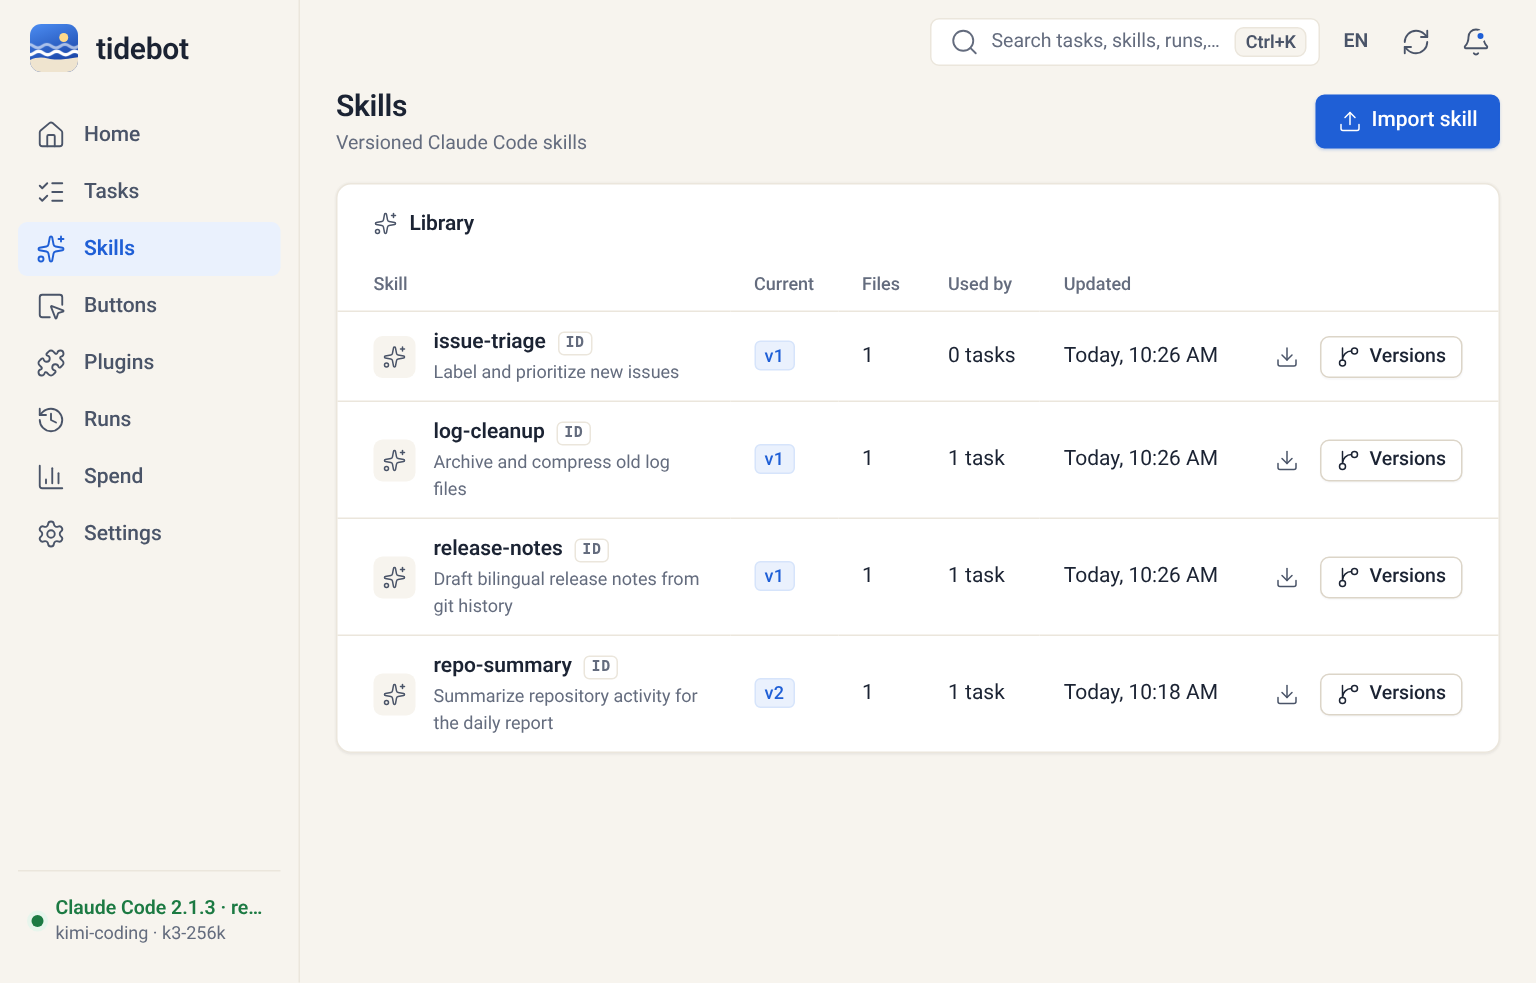
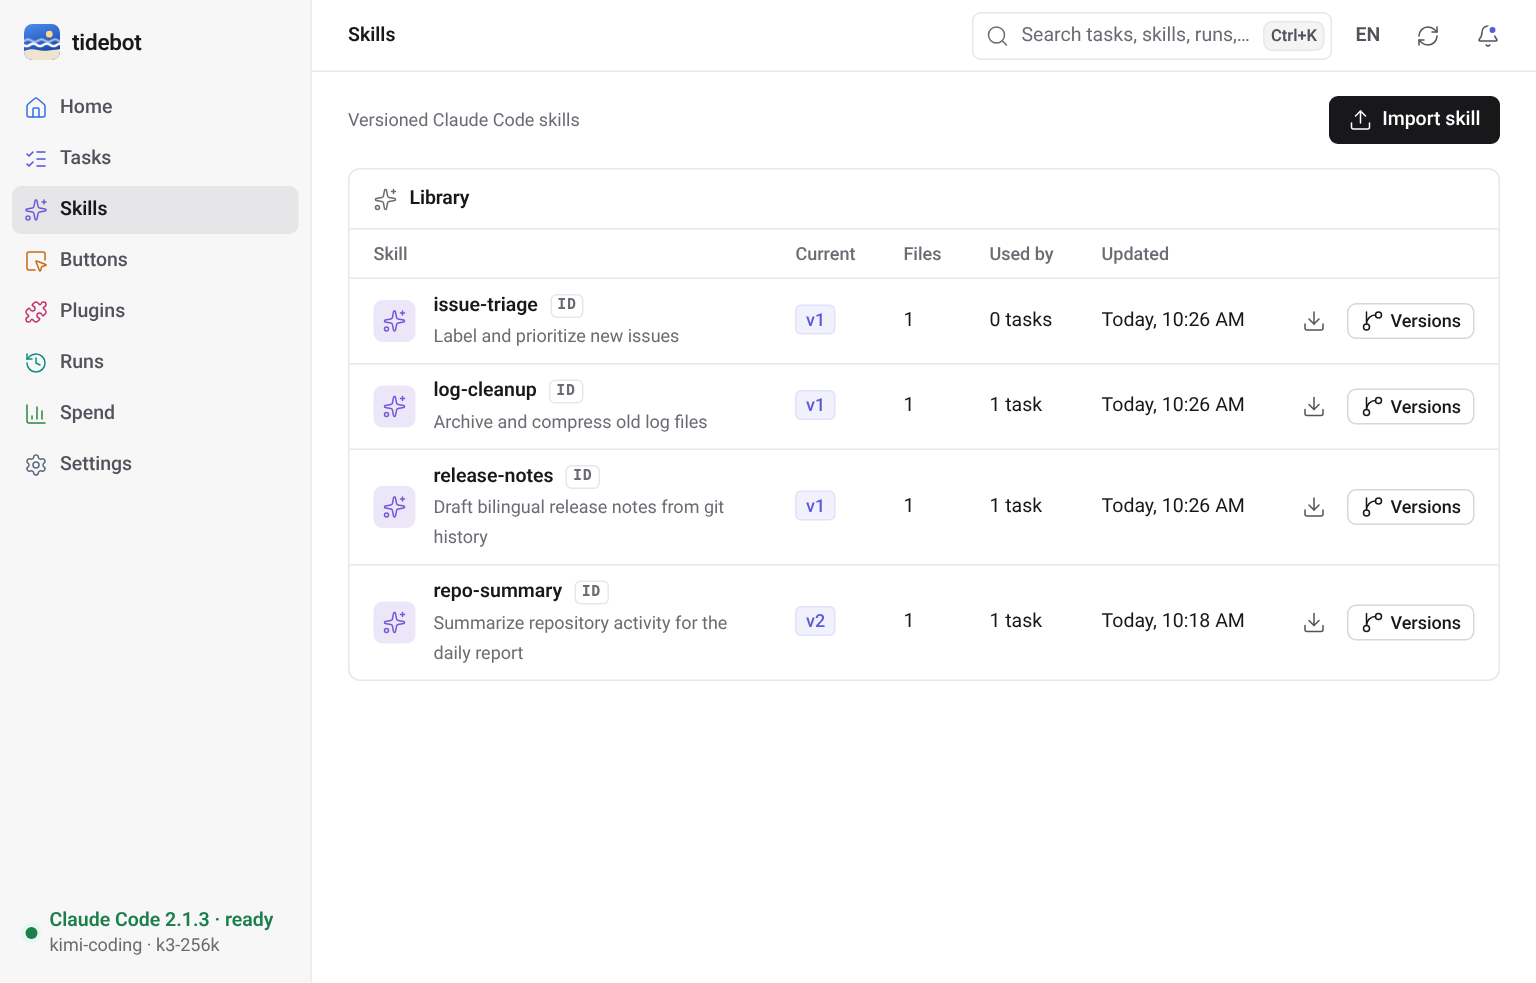
v0.1.9 发布说明；README 按石墨新界面重拍全部截图，新增外观设置、命令面板切换主题和午夜深色截图，补充三套主题说明，更新占用数据和安装版本号

diff --git a/internal/buildinfo/buildinfo_test.go b/internal/buildinfo/buildinfo_test.go
@@ -4,8 +4,8 @@ import "testing"
 
 func TestSourceRefAndOfficial(t *testing.T) {
 	defer func(v, c, o string) { Version, Commit, Official = v, c, o }(Version, Commit, Official)
-	Version, Commit = "0.1.8", "abc"
-	if g := SourceRef(); g != "https://github.com/Zhengmingming1/tidebot/tree/v0.1.8" {
+	Version, Commit = "0.1.9", "abc"
+	if g := SourceRef(); g != "https://github.com/Zhengmingming1/tidebot/tree/v0.1.9" {
 		t.Fatal(g)
 	}
 	Version = "dev"

diff --git a/README.en.md b/README.en.md
@@ -20,7 +20,7 @@ It's not a platform and doesn't want to become one. Single user, runs locally, o
 
 ## Screenshots
 
-All screenshots are taken in a 1024×655 window, which is the size I actually keep it at on my Mac. The data comes from the demo script, not a real account.
+All screenshots are taken in a 1024×655 window, which is the size I actually keep it at on my Mac, in the default Graphite theme. The data comes from the demo script, not a real account.
 
 The task list. Each row ends with a strip of the last 10 runs, tags sit next to the name, and clicking a tag filters by it; "Failing" picks out the tasks whose latest run didn't make it. It works from the keyboard too: `j`/`k` to move, Enter to open, `r` to run now.
 
@@ -58,9 +58,21 @@ Skill versions and diffs. Compare any two versions. Rollback only moves the poin
 
 ![Skill diff](docs/images/skill-diff.png)
 
-Ctrl+K (⌘K on a Mac) opens a command palette. It searches tasks, skills and runs, and can run a task, run a button or switch language. You can do all of it from the keyboard; `?` lists the shortcuts.
+Ctrl+K (⌘K on a Mac) opens a command palette. It searches tasks, skills and runs, and can run a task, run a button, switch language or change the theme. You can do all of it from the keyboard; `?` lists the shortcuts.
 
 ![Command palette](docs/images/palette.png)
+
+Appearance. 0.1.9 redid the UI. The default is Graphite: white surfaces, near-black primary buttons, an indigo accent, and cards split by hairlines instead of boxes inside boxes. The icons keep their colours, so you can still find things at a glance. There are two more themes: Tide (the old blue-green, toned down) and Midnight (amber accent, dark first). Each comes in light and dark, or follows your system. Pick one in Settings → General → Appearance. The choice is saved in tidebot, so another browser or the desktop app gets the same look, and the page opens in your colours without a white flash first.
+
+![Appearance settings](docs/images/appearance.png)
+
+If you'd rather not open Settings, pick "Change theme…" in the command palette. Moving up and down previews the whole window, Enter keeps it, and Esc or a click outside puts it back. Typing "dark" or "midnight" works too.
+
+![Changing the theme from the palette](docs/images/palette-theme.png)
+
+Midnight, dark:
+
+![Midnight dark](docs/images/dark.png)
 
 Settings are split into General / Providers / Budgets / Price catalog / Security / Notifications / Network / Data & backup / About, and every item has its own URL, e.g. `#/settings/security/2fa`. You can turn on two-factor sign-in there: scan, type one code, save the recovery codes. Nothing changes until a code checks out. Changing your password, seeing which devices are signed in and signing the others out are under Security too. Notification channels (Feishu, DingTalk, WeCom, Telegram, email, webhook) are added here as well; paste the URL and it figures out which one it is, and you can send a test before saving.
 
@@ -98,13 +110,13 @@ Small footprint. Measured on 2026-10-30 on a Linux x86_64 box (`go build -trimpa
 
 | What | Number |
 |---|---|
-| `agentd` binary (stripped) | 17.8 MB |
+| `agentd` binary (stripped) | 17.9 MB |
 | `agentctl` binary | 4.1 MB |
 | Idle RSS, WebUI off | ~29 MB |
 | Idle RSS, WebUI on | ~31 MB |
-| WebUI frontend (JS + CSS, gzipped) | ~195 KB, no CDN, no framework; cached by content hash, so a second visit downloads nothing |
+| WebUI frontend (JS + CSS, gzipped) | ~205 KB, no CDN, no framework; cached by content hash, so a second visit downloads nothing |
 
-This version adds quite a lot, so the frontend got bigger; memory stayed about the same. API responses are gzipped too: 100 runs in the runs list went from ~70 KB to 12 KB.
+This version has a new UI, and the stylesheet now carries three themes, so the frontend is about 10 KB bigger than 0.1.8; memory didn't move. API responses are gzipped too: 100 runs in the runs list went from ~70 KB to 12 KB.
 
 ## Architecture
 
@@ -166,11 +178,11 @@ Prebuilt packages are on the [Releases](https://github.com/Zhengmingming1/tidebo
 Whichever you pick, you still need the `claude` CLI installed to actually run tasks.
 
 - **Server (agentd + agentctl)**: grab `tidebot-server_<version>_<os>_<arch>.tar.gz` (`.zip` on Windows) and put the two binaries on your PATH.
-  On Debian/Ubuntu there's a `.deb`: `sudo apt install ./tidebot-server_0.1.8_amd64.deb`, then `systemctl --user enable --now tidebot`.
+  On Debian/Ubuntu there's a `.deb`: `sudo apt install ./tidebot-server_0.1.9_amd64.deb`, then `systemctl --user enable --now tidebot`.
 - **Desktop app**: `.dmg` on macOS (universal, Intel and Apple silicon), `-Windows-x64-Setup.exe` on Windows (per-user, no admin),
   `.deb` or `.AppImage` on Linux (the AppImage doesn't bundle WebKitGTK; you need `libwebkit2gtk-4.1` on the system).
   Unsigned builds: on macOS right-click → Open the first time; Windows shows a SmartScreen prompt.
-- **Docker**: `docker pull ghcr.io/zhengmingming1/tidebot:0.1.8`. The image doesn't include the `claude` CLI; see [docs/release.md](docs/release.md) for adding it.
+- **Docker**: `docker pull ghcr.io/zhengmingming1/tidebot:0.1.9`. The image doesn't include the `claude` CLI; see [docs/release.md](docs/release.md) for adding it.
 
 Auto-update: the desktop app and the server check for a new version once a day (you can turn that off in Settings → About → Updates). By hand it's `agentctl update check` / `agentctl update apply`: the update manifest's signature and the package's sha256 are verified, the binaries are swapped in place (the old ones stay as `.prev`), and if the new version doesn't come up within 90 seconds it rolls back. Installs owned by a package manager, like `.deb` or Docker, only get a notification. If GitHub is slow or blocked where you are, Settings → Network has proxy and download mirror options.
 
@@ -178,7 +190,7 @@ Settings → About shows whether there's a new version and its release notes. "U
 
 ![Updates](docs/images/update.png)
 
-**On the macOS desktop app 0.1.7? Install this one by hand, once.** In the 0.1.7 Mac build the "Update" button does nothing (WKWebView doesn't support `window.confirm()`; 0.1.8 uses an in-app dialog instead). Quit tidebot from its menu bar icon, download the new [.dmg](https://github.com/Zhengmingming1/tidebot-releases/releases/latest/download/tidebot-desktop-macOS-AppleSilicon-Intel.dmg) and drag tidebot.app into Applications to replace the old one, then open it the first time with right-click → Open (or run `xattr -dr com.apple.quarantine /Applications/tidebot.app`). Your data stays put. Later versions update in-app again.
+**Still on the macOS desktop app 0.1.7? Install a newer one by hand, once.** In the 0.1.7 Mac build the "Update" button does nothing (WKWebView doesn't support `window.confirm()`; 0.1.8 uses an in-app dialog instead). Quit tidebot from its menu bar icon, download the new [.dmg](https://github.com/Zhengmingming1/tidebot-releases/releases/latest/download/tidebot-desktop-macOS-AppleSilicon-Intel.dmg) and drag tidebot.app into Applications to replace the old one, then open it the first time with right-click → Open (or run `xattr -dr com.apple.quarantine /Applications/tidebot.app`). Your data stays put. Later versions update in-app again.
 
 ## Quick start
 
@@ -311,7 +323,7 @@ Works today:
 - Notifications: email, webhook, Feishu, DingTalk, WeCom, Telegram, added and tested from Settings; answer excerpts, optional "only when the answer changed"; per-channel delivery status and alerts on repeated failures; quiet hours and a daily digest
 - Backups (`.agentbak`, secrets only with a passphrase) and restore (`agentd restore`), log cleanup, a health summary and Prometheus `/metrics`
 - Sandbox dry-runs: runs against a copy of the workspace, billed to the dry_run bucket, and tells you which files changed
-- WebUI in English and Chinese, with a CI check that both dictionaries have the same keys; command palette and shortcuts; notifications grouped into failed / needs me / other
+- WebUI in English and Chinese, with a CI check that both dictionaries have the same keys; Graphite / Tide / Midnight themes, each light and dark or following the system; command palette and shortcuts; notifications grouped into failed / needs me / other
 - Optional two-factor sign-in (TOTP) with one-time recovery codes; after too many failed logins it tells you how long to wait; change your password, see and sign out other devices
 - A desktop app (tray + window)
 - CI runs the tests on Linux, macOS and Windows on every push; Windows uses a named pipe for local IPC; gitleaks scans the full history in CI so keys don't get committed

diff --git a/docs/release-notes/v0.1.9.md b/docs/release-notes/v0.1.9.md
@@ -1,0 +1,24 @@
+# tidebot v0.1.9
+
+这是一个小版本，只做了一件事：把界面重新设计了一遍。以前的沙色底加白框看久了有点闷，这次换成更干净的石墨风格，同时留了三套主题给你挑。
+
+## 新界面 / New look
+- **默认主题「石墨」**：白底、深色主按钮、靛蓝强调色，卡片换成细线分隔的分组，不再框套框。侧栏、设置导航和各处图标保持彩色，一眼能认出来。
+  New default theme Graphite: white surfaces, near-black primary buttons, indigo accent, hairline groups instead of nested boxes; icons stay colourful.
+- 顶部多了一条标题栏，显示当前页面标题或面包屑；首页改成“数字一览 + 快捷操作 + 各任务最近状态 + 接下来 24 小时”；关于页的链接改成短链接，完整地址在悬停提示里。
+  A top bar with the page title or breadcrumb, a reworked home page, short links on the About page.
+
+## 三套主题 / Three themes
+- **石墨 / 潮汐 / 午夜**，每套都有浅色和深色，也可以跟随系统。在“设置 → 通用 → 外观”里点色卡切换，选择存在 tidebot 里，换个浏览器打开也一样。
+  Graphite, Tide (the old blue-green, calmer) and Midnight (dark-first, amber accent), each light and dark or following the system, in Settings → General → Appearance.
+- 打开页面时直接就是你选的主题，不会先白一下再变；桌面版窗口在网页加载前就先涂好主题底色。
+  No flash on load; the desktop window is pre-painted with the theme's background.
+
+## 命令面板换主题 / Change theme from the palette
+- ⌘K / Ctrl+K 里选「切换主题…」，用方向键移动时整个窗口跟着预览，回车保存，Esc 或点外面就恢复原样。直接输入「深色」「午夜」也能一步切过去。
+  ⌘K / Ctrl+K → "Change theme…": arrow keys preview the whole window, Enter keeps it, Esc reverts. Typing "dark" or "midnight" works too.
+
+0.1.8 的 Windows、macOS 桌面版、Linux AppImage 和服务端压缩包会在应用里收到这次更新（`.deb` 和 Docker 跟以前一样只提示）。
+Desktop and server-tarball installs of 0.1.8 get this update in-app (.deb and Docker are notify-only, as before).
+
+Thanks to Anthropic for Claude Code — tidebot just drives it.

diff --git a/docs/release.md b/docs/release.md
@@ -91,7 +91,7 @@ Nobody can force-push or delete `main`, or move or delete a `v*` tag.
 
 Only release-workflow binaries carry `buildinfo.Official=1` (`TIDEBOT_OFFICIAL=1` in
 `release.yml`). Anything built from source is notify-only; see [building.md](building.md).
-`scripts/e2e-update.sh` runs a full 0.1.7 → 0.1.8 update against a local feed signed with a
+`scripts/e2e-update.sh` runs a full 0.1.8 → 0.1.9 update against a local feed signed with a
 throwaway key. CI runs it on Linux.
 
 On the client, agentd / the desktop app check `latest.json` once a day (Settings → About →
